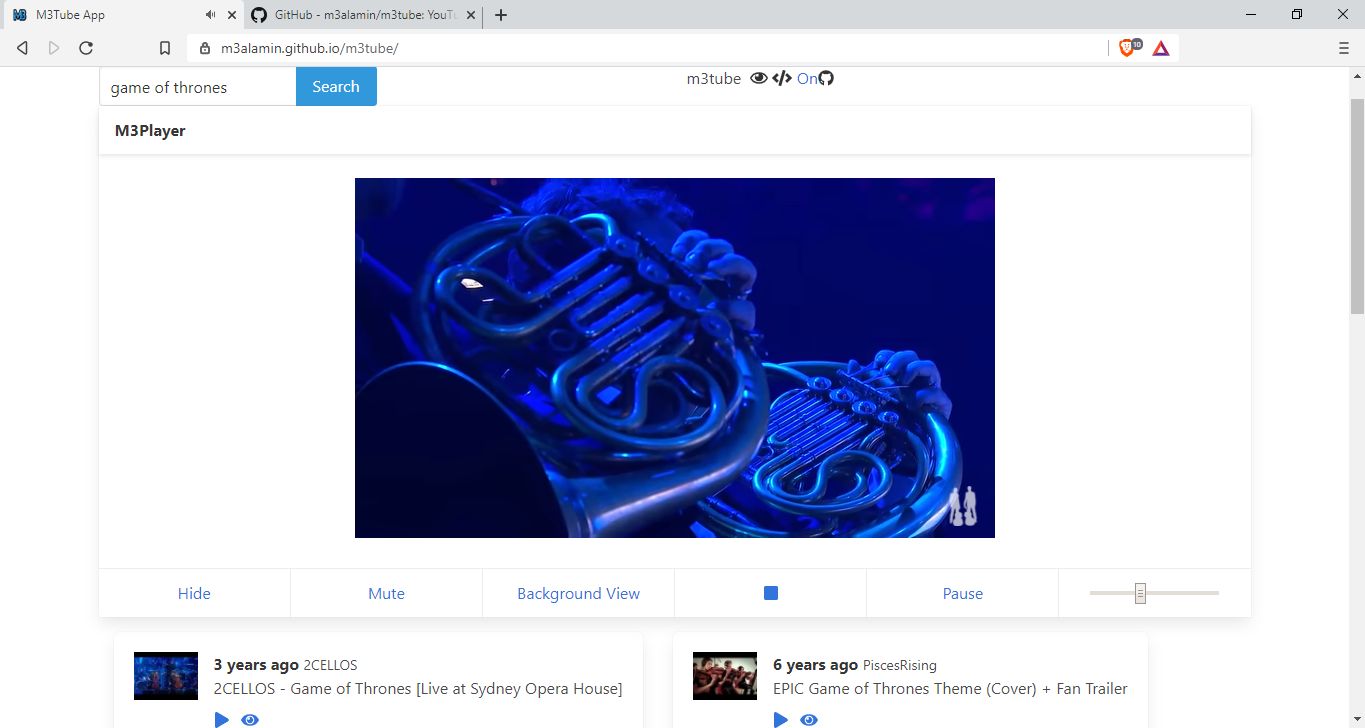
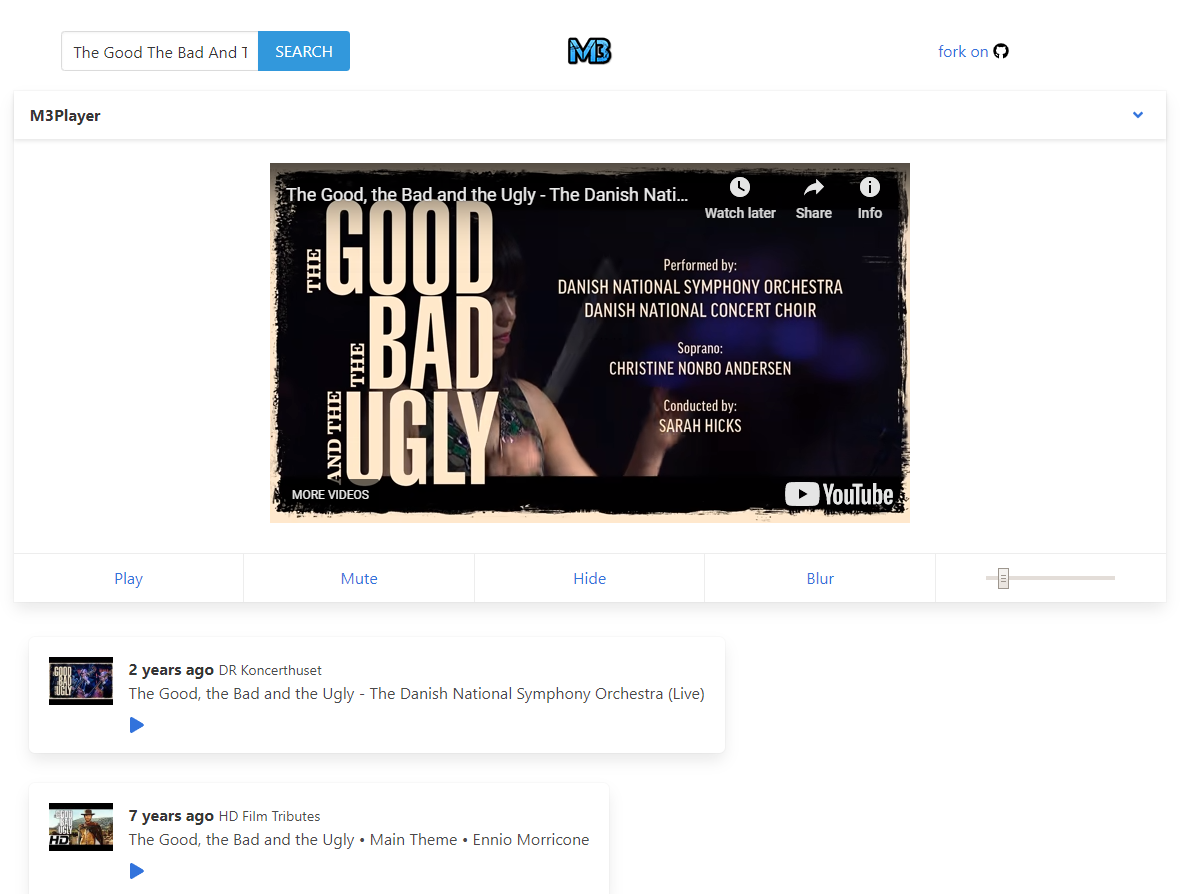
v2 release note

diff --git a/README.md b/README.md
@@ -1,3 +1,27 @@
+# 2.0.0
+
+- [x] Bug fixes
+- [x] Code structure upgrade and better code formatting
+- [x] Removed react-router-dom (Single page view removed)
+- [x] Added Play/Pause button on Single Item
+- [x] Better notification on error
+- [x] UI tweak
+- [x] Build version published on firebase
+
+# 1.0.0
+
+- [x] YouTube player on a different view
+- [x] YouTube data api v3
+- [x] Build version published as github page
+- [x] Packages
+  - [x] create-react-app
+  - [x] bulma
+  - [x] react-router-dom
+  - [x] moment
+  - [x] redux, react-redux
+  - [x] redux-thunk
+  - [x] axios
+
 YouTube implemented for me using ReactJs, React Router Dom, Redux, Redux-thunk and YouTube API v3 [https://m3tube.firebaseapp.com/](https://m3tube.firebaseapp.com/).
 
 ![Screenshot](screenshot.png)
